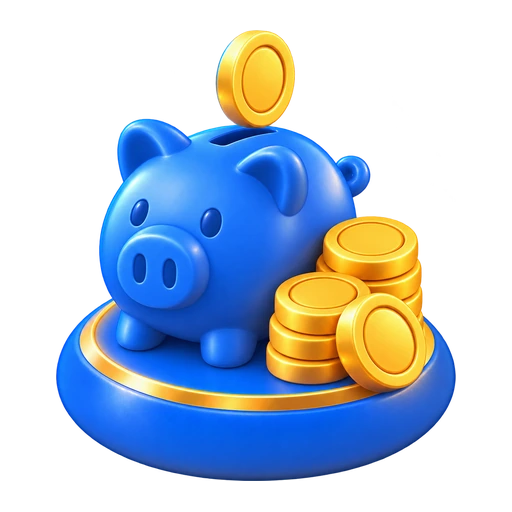
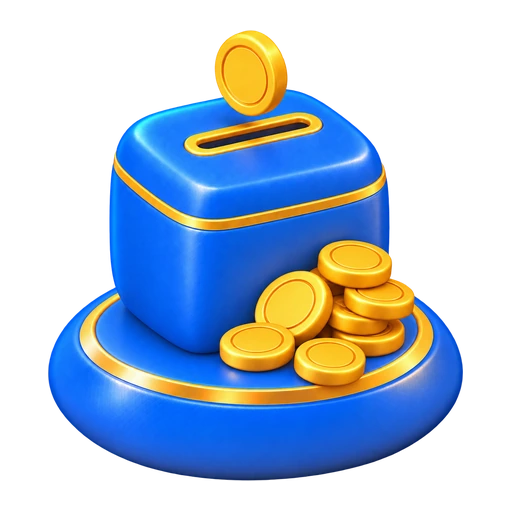
Replace the piggy bank with something that is ours
A generic pig was the one object in the set that could have come from any
finance app. The money box that replaces it is the character's own rounded
square with a gold coin slot across the top — no face, no eyes, no limbs. A
thing in his world rather than a costume on him, which is the line
`CHARACTER.md` §3 draws and the reason the badges hold no character at all.

The savings ladder reads as one object growing up now: coins, a pile, a box
to keep them in, a chest, a chest overflowing, a vault.

Claude-Session: https://claude.ai/code/session_01TxwT3QBy2yVWCiz65F7mj3

diff --git a/assets/mascot/MILESTONE_BADGES_BRIEF.md b/assets/mascot/MILESTONE_BADGES_BRIEF.md
@@ -5,10 +5,9 @@
 הסולם (`C2-coupon-milestone` / `C3-lifetime-savings`) נשארה בקוד עבור שלב
 שיתווסף לסולם בעתיד ועוד אין לו אמנות.
 
-פתוח: `savings-10000` הוא עדיין חזיר גנרי. החלופה המאושרת היא קופסת חיסכון
-בצללית של הדמות — בלי פנים, בלי עיניים, בלי גפיים — שהיא חפץ בעולם שלו ולא
-וריאציה שלו, מה ש-`docs/mascot/CHARACTER.md` §3 אוסר. שורת הנושא לה נמצאת
-בפרומפטים למטה.
+`savings-10000` היה חזיר גנרי והוחלף בקופסת חיסכון בצללית של הדמות — בלי
+פנים, בלי עיניים, בלי גפיים. זה חפץ בעולם שלו ולא וריאציה שלו, וזאת ההבחנה
+ש-`docs/mascot/CHARACTER.md` §3 מותח: הסביבה והחפצים פתוחים, הדמות לא.
 
 ## אלה אובייקטים, לא הדמות
 
